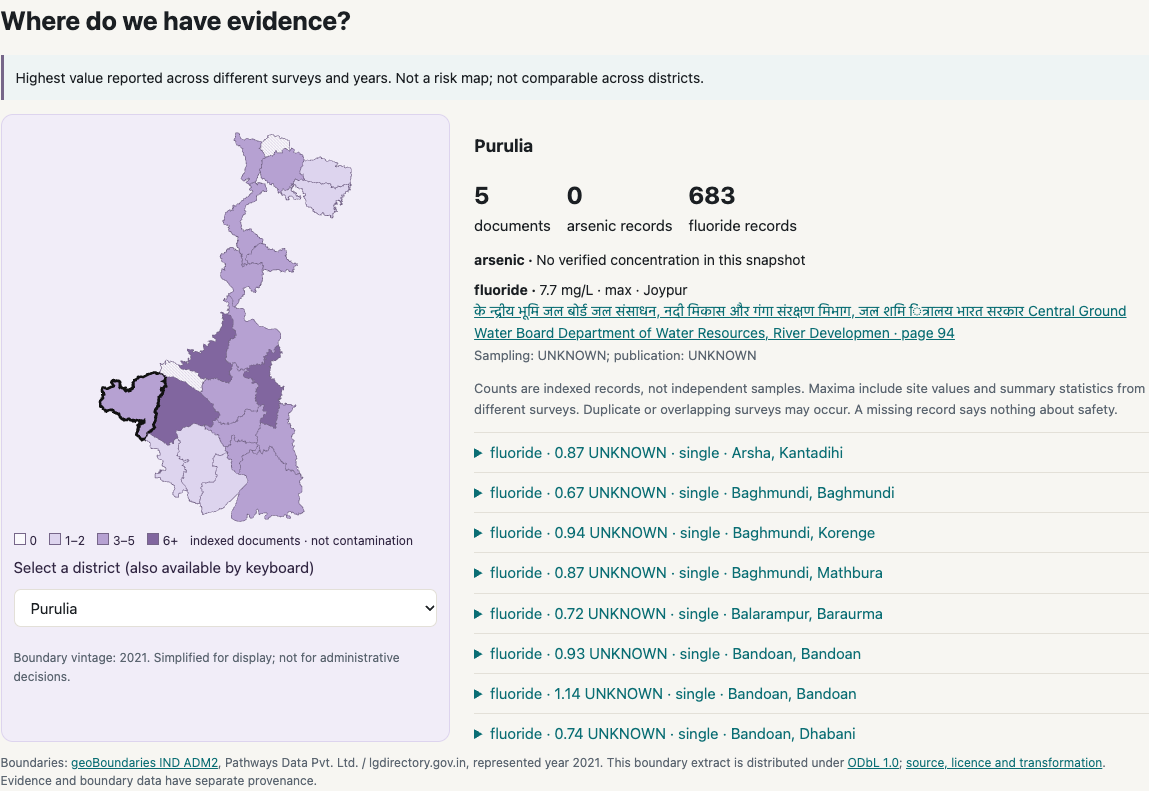
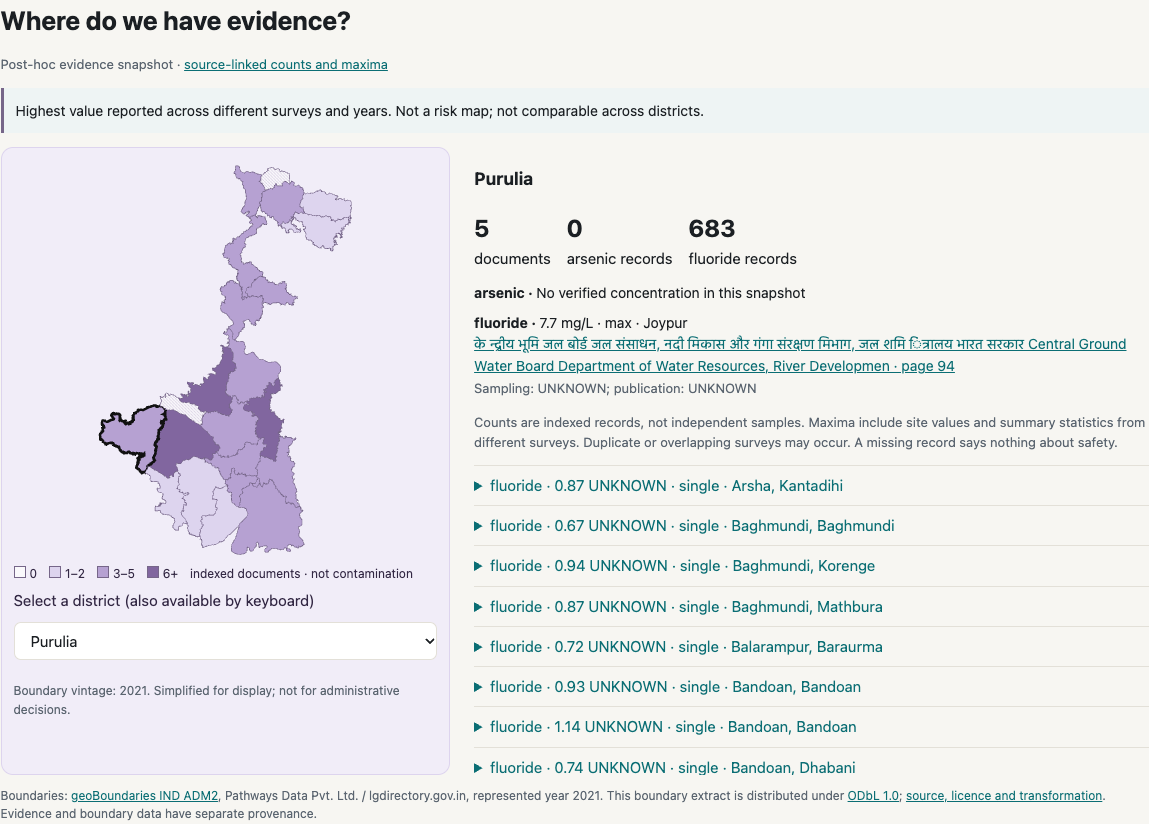
Record map inventory provenance and refresh browser checks

Changed region(s): [[0.0, 0.182, 1.0, 1.0], [0.0, 0.0, 0.6092, 0.7889], [0.0, 0.8192, 0.3655, 0.8799]]

diff --git a/docs/index.html b/docs/index.html
@@ -60,6 +60,7 @@ details summary{cursor:pointer;color:var(--acc)}footer{margin:40px 0;color:var(-
 </section>
 <section class="map-panel" id="map" aria-labelledby="map-title">
   <h2 id="map-title">Where do we have evidence?</h2>
+  <p class="sub">Post-hoc evidence snapshot · <a href="https://github.com/mohitt31/jaldrishti/blob/main/reports/browser_release/map_inventory.json">source-linked counts and maxima</a></p>
   <p class="map-warning">Highest value reported across different surveys and years. Not a risk map; not comparable across districts.</p>
   <div class="map-layout"><div class="map-frame"><svg id="district-map" role="group" aria-label="West Bengal district evidence coverage"></svg><div class="map-legend"><span><i style="background:#faf9fc"></i>0</span><span><i style="background:#ddd4ee"></i>1–2</span><span><i style="background:#b6a1d2"></i>3–5</span><span><i style="background:#81669f"></i>6+</span><span>indexed documents · not contamination</span></div><label for="district-select">Select a district (also available by keyboard)</label><select id="district-select"></select><p class="map-note">Boundary vintage: 2021. Simplified for display; not for administrative decisions.</p></div>
   <div><h3 id="district-heading">District evidence</h3><div id="district-counts" class="map-counts"></div><div id="district-max" class="map-max"></div><p class="sub">Counts are indexed records, not independent samples. Maxima include site values and summary statistics from different surveys. Duplicate or overlapping surveys may occur. A missing record says nothing about safety.</p><div id="district-evidence" class="district-list">Loading map…</div></div></div>

diff --git a/scripts/export_browser.py b/scripts/export_browser.py
@@ -62,6 +62,7 @@ def export():
     full={scope:aggregates([e for e in ev if e['doc'] in payload['scopes'][scope]],metas,names) for scope in payload['scopes']}
     summary={scope:{d:{k:v for k,v in group.items() if k!='evidence'} for d,group in groups.items()} for scope,groups in full.items()}
     (out/'map.json').write_text(json.dumps(summary,ensure_ascii=False,separators=(',',':')))
+    (ROOT/'reports/browser_release/map_inventory.json').write_text(json.dumps({'label':'post-hoc source inventory; not risk or evaluation', 'scopes':summary},ensure_ascii=False,separators=(',',':'))+'\n')
     (out/'districts').mkdir(exist_ok=True)
     for district in names:
         (out/'districts'/f'{district.lower().replace(" ","-")}.json').write_text(json.dumps({s:groups[district]['evidence'] for s,groups in full.items()},ensure_ascii=False,separators=(',',':')))

diff --git a/tests/test_browser.py b/tests/test_browser.py
@@ -71,6 +71,7 @@ def test_shipped_evidence_and_boundary_integrity():
     assert set(d['scopes']['library'])<=set(d['scopes']['reference'])
     assert all(e['row_verified']==bool(e['bbox'] and e['page_verified']) for e in d['evidence'])
     assert all('file' not in m for m in d['metas'].values())
+    assert json.loads((ROOT/'reports/browser_release/map_inventory.json').read_text())['scopes']==json.loads((ROOT/'docs/ask/map.json').read_text())
     geo=json.loads((ROOT/'docs/ask/west-bengal.geojson').read_text())
     assert {f['properties']['name'] for f in geo['features']}==set(DISTRICTS)
     for f in geo['features']:

diff --git a/reports/browser_release/README.md b/reports/browser_release/README.md
@@ -10,6 +10,7 @@ The static app uses the SerpApi-discovered library snapshot. It cannot run new s
 
 ## Engineering results and provenance
 
+- [map_inventory.json](map_inventory.json): post-hoc source-linked counts and maxima for each district and scope, matching the map data exactly.
 - [build.json](build.json): source-derived export sizes, hashes, evidence/document counts, row/page verification counts and the map aggregation definition. These are inventory metrics, not accuracy results.
 - [parity.json](parity.json): ten selected **development examples**, each compared against the complete JSON answer from `jaldrishti ask QUESTION --mode SCOPE --offline --budget 0 --json`. Includes numeric, comparison, insufficient evidence, both scopes, Hindi/Bengali and an unresolved village. These are deliberately chosen developer examples, not held-out questions.
 - [browser_qa.json](browser_qa.json): desktop and mobile headless Chrome executed those same inputs through the real downloaded Pyodide runtime. All ten complete answer objects match the CLI on each device. The report records initial decoded payload bytes, overflow, console/network failures and interaction checks. Initial decoded bytes are a conservative body-size measurement; they are not a universal latency or transfer-speed claim. The Python runtime is deferred until the first question.
